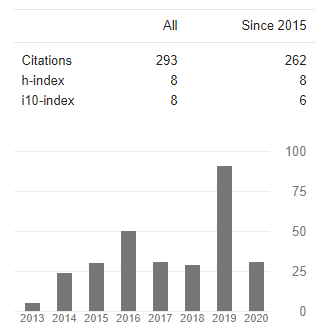
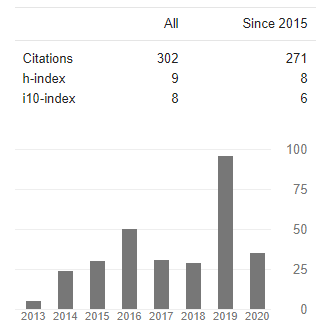
Update_03_23_2020_1

diff --git a/research.html b/research.html
@@ -23,7 +23,7 @@
 		</strong>
     </blockquote> 
 	<br/>
-    My Google Scholar Snapshot <b>(January 2020)</b>
+    My Google Scholar Snapshot <b>(March 2020)</b>
 	<br/>
 	<br/>
 	<img src="images/scholarstat.png" width="305" height="295" >
